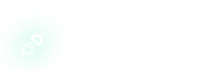
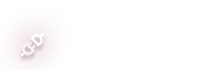
updates to colours used green -> magenta

Changed region(s): [[0.0865, 0.5143, 0.2308, 0.8571]]

diff --git a/components/ui/floating-dock.tsx b/components/ui/floating-dock.tsx
@@ -121,7 +121,7 @@ function IconContainer({
         className={cn(
           "aspect-square rounded-full flex items-center justify-center relative",
           isActive
-            ? "bg-neonGreen dark:bg-neonGreen" 
+            ? "bg-darkMagenta dark:bg-darkMagenta" 
             : "bg-gray-200 dark:bg-neutral-800",
         )}
       >

diff --git a/tailwind.config.js b/tailwind.config.js
@@ -39,6 +39,7 @@ module.exports = {
         background: "hsl(var(--background))",
         foreground: "hsl(var(--foreground))",
         neonGreen: "#00B173",
+        darkMagenta: "#8B004B",
         card: {
           DEFAULT: "hsl(var(--card))",
           foreground: "hsl(var(--card-foreground))",
